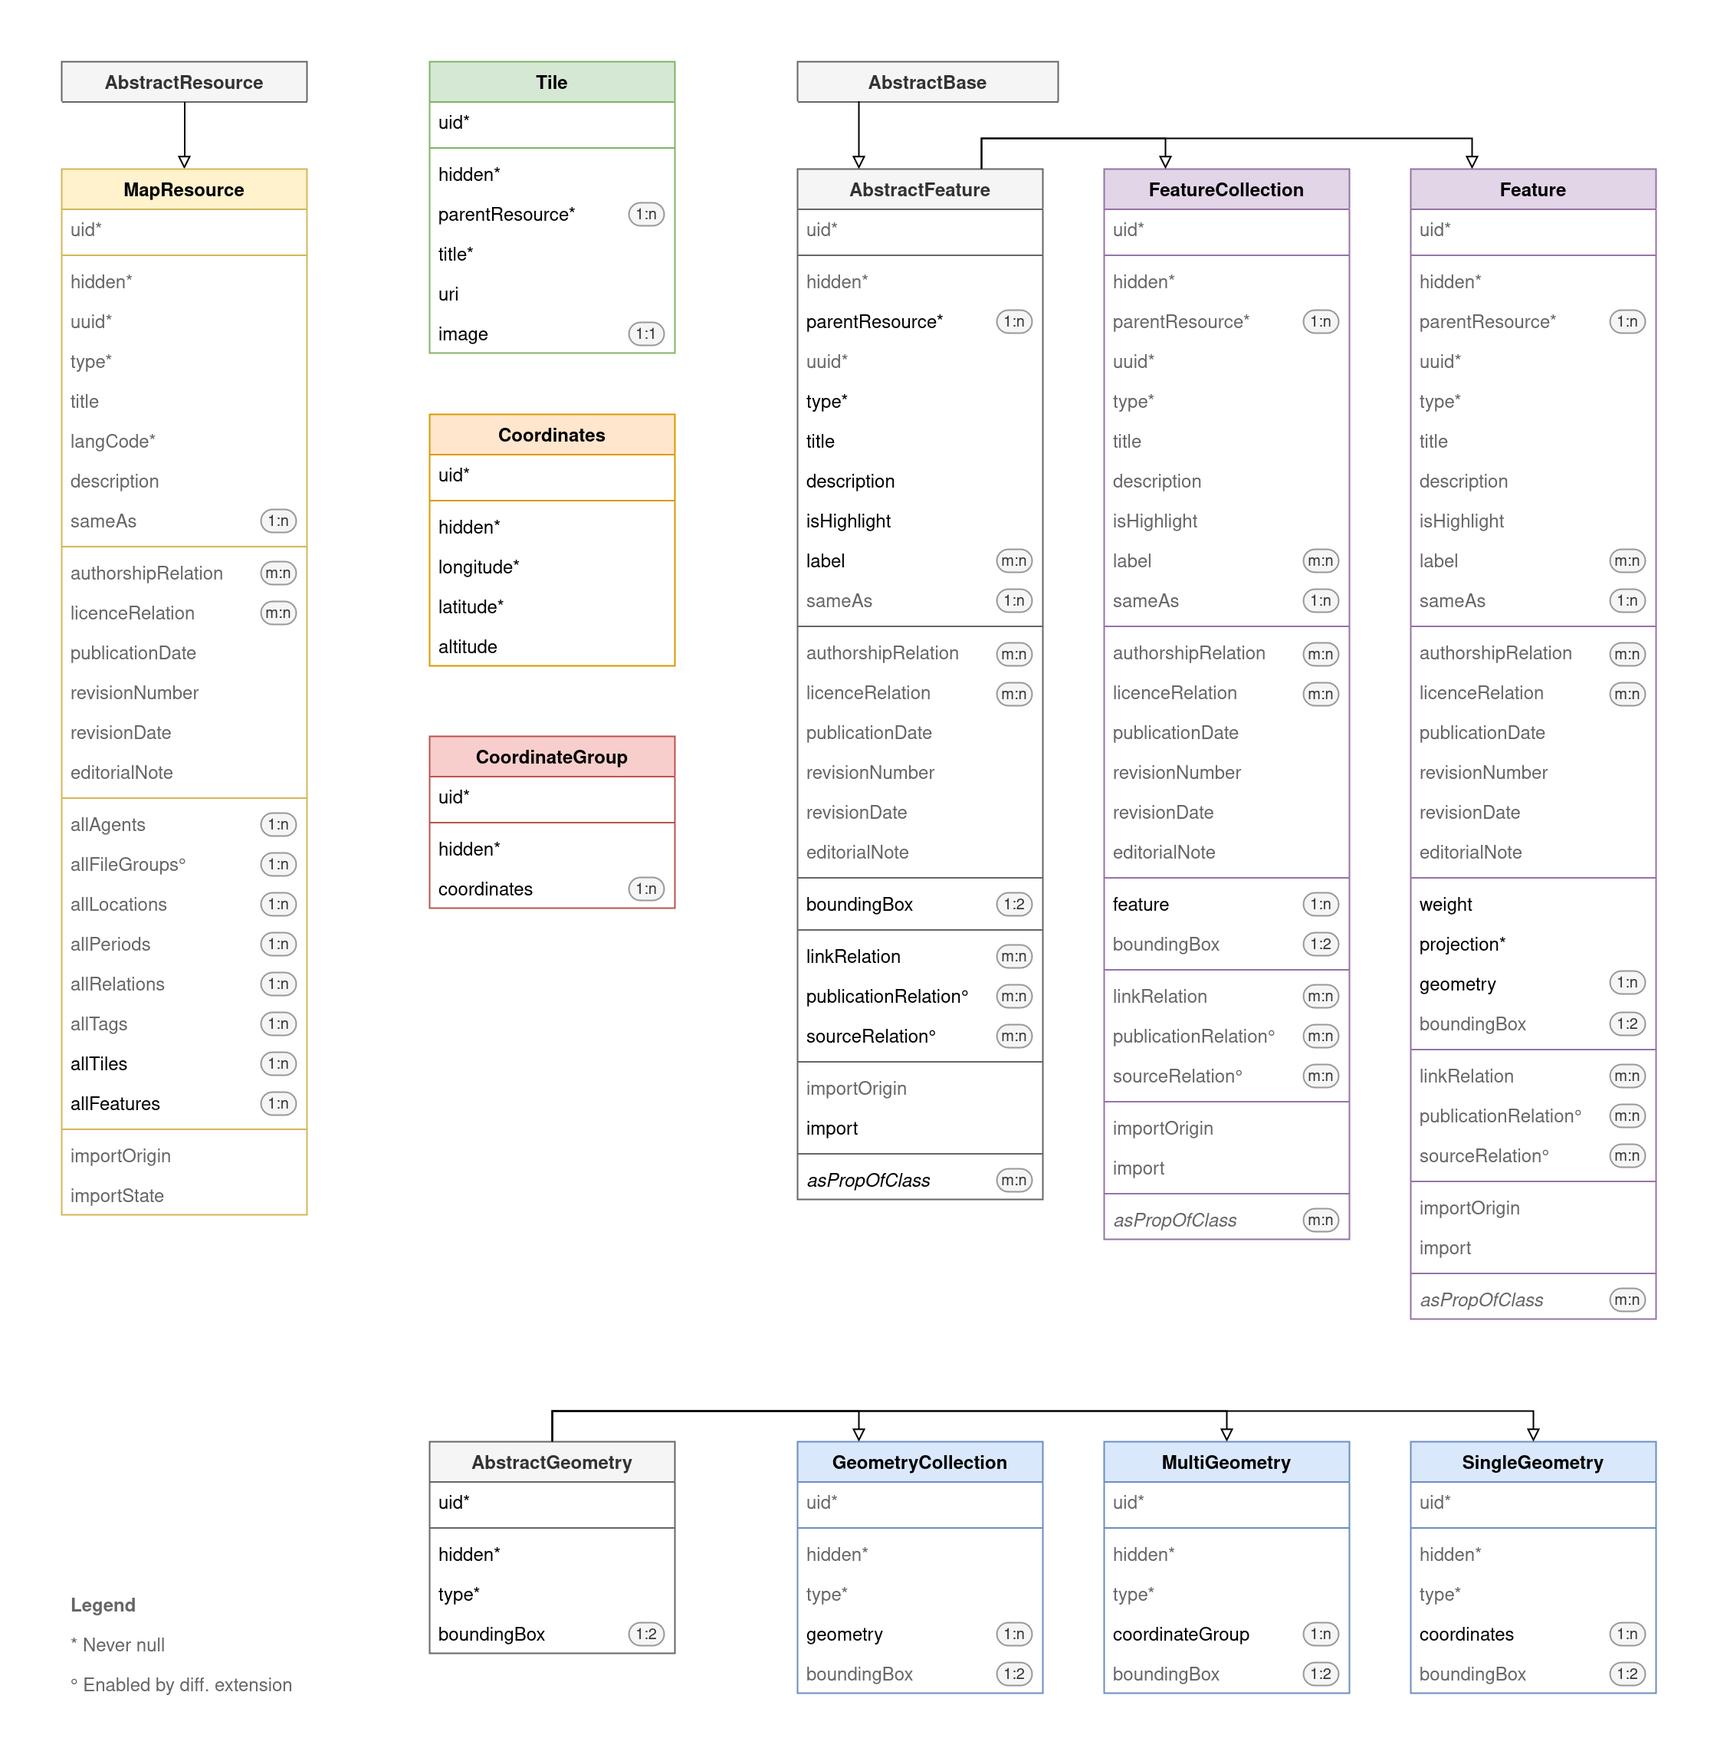
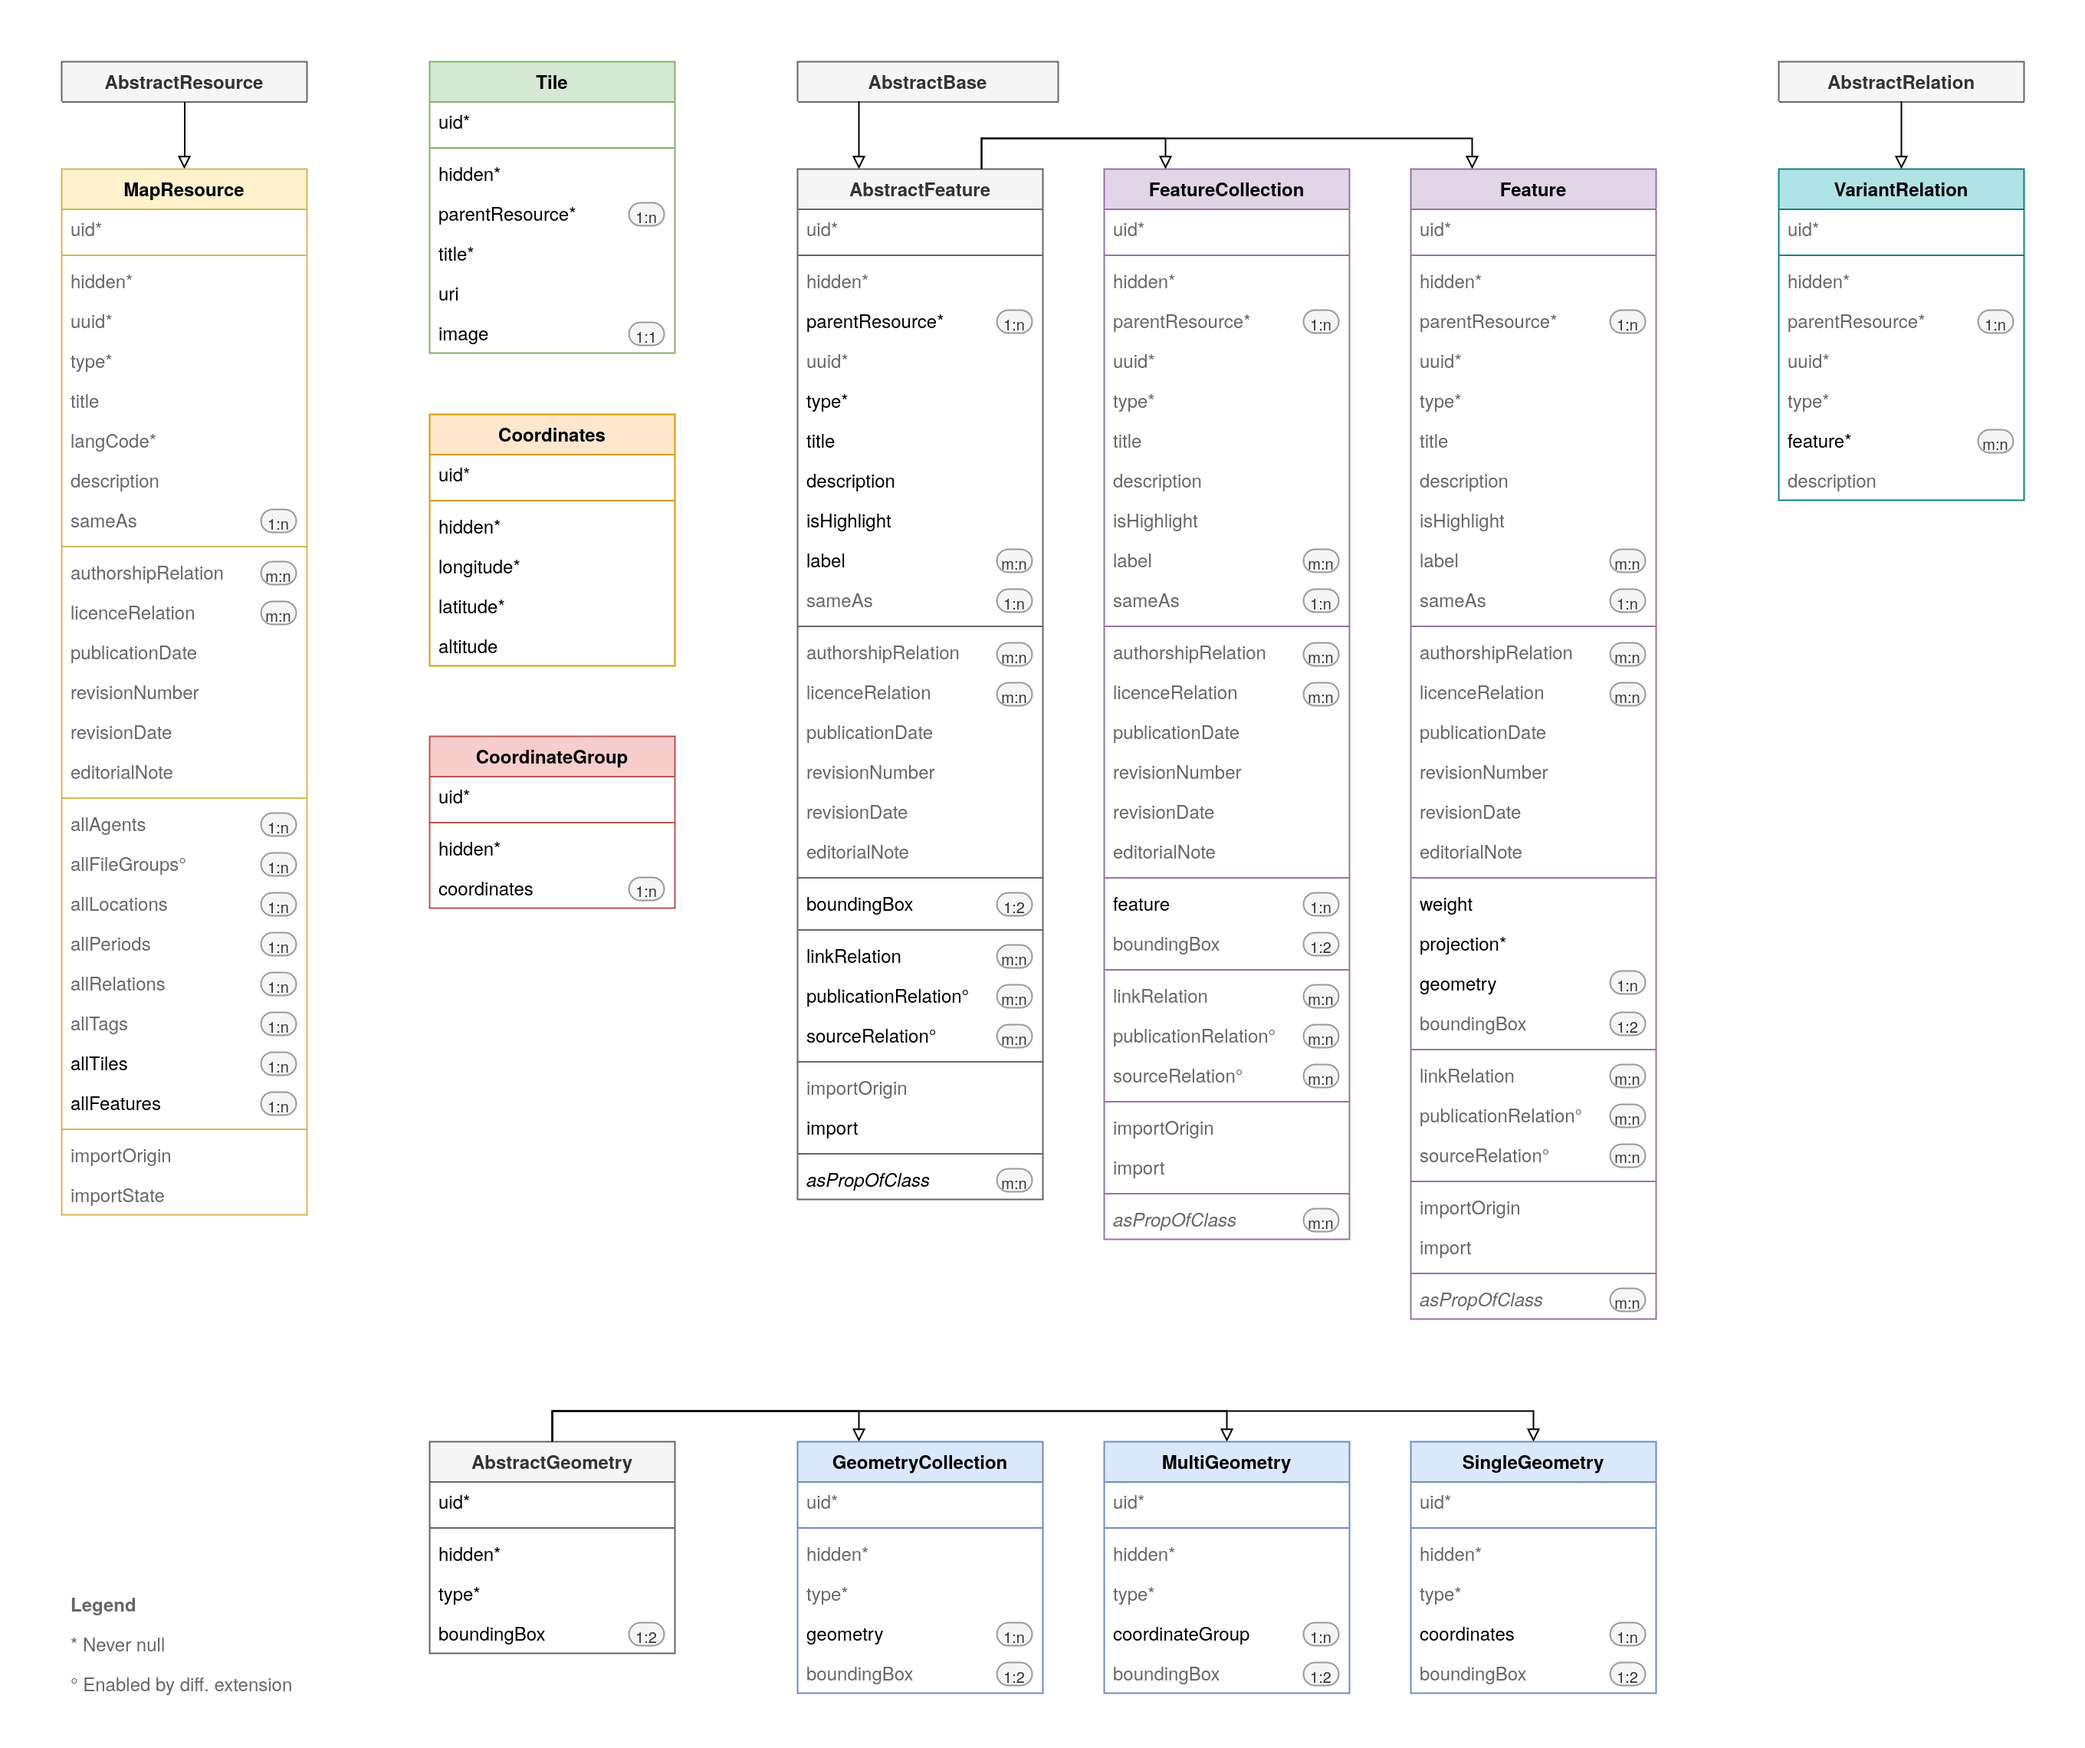
Add VariantRelation to connect variants of the same feature

diff --git a/Configuration/TCA/tx_chfmap_domain_model_feature.php b/Configuration/TCA/tx_chfmap_domain_model_feature.php
@@ -655,6 +655,35 @@ return [
                 'readOnly' => true,
             ],
         ],
+        'asFeatureOfVariantRelation' => [
+            'exclude' => true,
+            'l10n_mode' => 'exclude',
+            'label' => 'LLL:EXT:chf_map/Resources/Private/Language/locallang.xlf:object.abstractFeature.asFeatureOfVariantRelation',
+            'description' => 'LLL:EXT:chf_map/Resources/Private/Language/locallang.xlf:object.abstractFeature.asFeatureOfVariantRelation.description',
+            'config' => [
+                'type' => 'select',
+                'renderType' => 'selectMultipleSideBySide',
+                'foreign_table' => 'tx_chfbase_domain_model_relation',
+                'foreign_table_where' => 'AND {#tx_chfbase_domain_model_relation}.{#pid}=###CURRENT_PID###'
+                    . ' AND {#tx_chfbase_domain_model_relation}.{#type}=\'variantRelation\'',
+                'MM' => 'tx_chfmap_domain_model_relation_feature_feature_mm',
+                'MM_opposite_field' => 'feature',
+                'size' => 5,
+                'autoSizeMax' => 10,
+                'fieldControl' => [
+                    'editPopup' => [
+                        'disabled' => false,
+                    ],
+                    'addRecord' => [
+                        'disabled' => false,
+                    ],
+                    'listModule' => [
+                        'disabled' => false,
+                    ],
+                ],
+                'readOnly' => true,
+            ],
+        ],
     ],
     'palettes' => [
         'hiddenParentResource' => [
@@ -677,7 +706,7 @@ return [
             --div--;LLL:EXT:chf_base/Resources/Private/Language/locallang.xlf:object.generic.content,boundingBox,
             --div--;LLL:EXT:chf_base/Resources/Private/Language/locallang.xlf:object.generic.relations,linkRelation,publicationRelation,sourceRelation,
             --div--;LLL:EXT:chf_base/Resources/Private/Language/locallang.xlf:object.generic.import,importOrigin,import,
-            --div--;LLL:EXT:chf_base/Resources/Private/Language/locallang.xlf:object.generic.usage,asGeodataOfLocation,asGeodataOfFrequency,asGeodataOfSingleObject,asGeodataOfObjectGroup,',
+            --div--;LLL:EXT:chf_base/Resources/Private/Language/locallang.xlf:object.generic.usage,asGeodataOfLocation,asGeodataOfFrequency,asGeodataOfSingleObject,asGeodataOfObjectGroup,asFeatureOfVariantRelation,',
         ],
         'feature' => [
             'showitem' => 'hiddenParentResource,uuidType,title,description,isHighlight,label,sameAs,
@@ -685,7 +714,7 @@ return [
             --div--;LLL:EXT:chf_base/Resources/Private/Language/locallang.xlf:object.generic.content,weightProjection,geometry,boundingBox,
             --div--;LLL:EXT:chf_base/Resources/Private/Language/locallang.xlf:object.generic.relations,linkRelation,publicationRelation,sourceRelation,
             --div--;LLL:EXT:chf_base/Resources/Private/Language/locallang.xlf:object.generic.import,importOrigin,import,
-            --div--;LLL:EXT:chf_base/Resources/Private/Language/locallang.xlf:object.generic.usage,asGeodataOfLocation,asGeodataOfFrequency,asGeodataOfSingleObject,asGeodataOfObjectGroup,',
+            --div--;LLL:EXT:chf_base/Resources/Private/Language/locallang.xlf:object.generic.usage,asGeodataOfLocation,asGeodataOfFrequency,asGeodataOfSingleObject,asGeodataOfObjectGroup,asFeatureOfVariantRelation,',
         ],
         'featureCollection' => [
             'showitem' => 'hiddenParentResource,uuidType,title,description,isHighlight,label,sameAs,
@@ -693,7 +722,7 @@ return [
             --div--;LLL:EXT:chf_base/Resources/Private/Language/locallang.xlf:object.generic.content,feature,boundingBox,
             --div--;LLL:EXT:chf_base/Resources/Private/Language/locallang.xlf:object.generic.relations,linkRelation,publicationRelation,sourceRelation,
             --div--;LLL:EXT:chf_base/Resources/Private/Language/locallang.xlf:object.generic.import,importOrigin,import,
-            --div--;LLL:EXT:chf_base/Resources/Private/Language/locallang.xlf:object.generic.usage,asGeodataOfLocation,asGeodataOfFrequency,asGeodataOfSingleObject,asGeodataOfObjectGroup,',
+            --div--;LLL:EXT:chf_base/Resources/Private/Language/locallang.xlf:object.generic.usage,asGeodataOfLocation,asGeodataOfFrequency,asGeodataOfSingleObject,asGeodataOfObjectGroup,asFeatureOfVariantRelation,',
         ],
     ],
 ];

diff --git a/Configuration/TCA/Overrides/tx_chfbase_domain_model_relation.php b/Configuration/TCA/Overrides/tx_chfbase_domain_model_relation.php
@@ -1,0 +1,75 @@
+<?php
+declare(strict_types=1);
+
+# This file is part of the extension CHF Map for TYPO3.
+#
+# For the full copyright and license information, please read the
+# LICENSE.txt file that was distributed with this source code.
+
+
+defined('TYPO3') or die();
+
+/**
+ * VariantRelation and its properties
+ * 
+ * Extension of a database table and its editing interface in the
+ * TYPO3 backend. This also serves as the basis for the Extbase
+ * domain model. For more information on TCA and its options see
+ * https://docs.typo3.org/m/typo3/reference-tca/main/en-us/.
+ */
+
+// Add select item group 'chfMap'
+\TYPO3\CMS\Core\Utility\ExtensionManagementUtility::addTcaSelectItemGroup('tx_chfbase_domain_model_relation', 'type',
+    'chfMap',
+    'LLL:EXT:chf_base/Resources/Private/Language/locallang.xlf:object.generic.chfMap'
+);
+
+// Add select item 'variantRelation'
+\TYPO3\CMS\Core\Utility\ExtensionManagementUtility::addTcaSelectItem('tx_chfbase_domain_model_relation', 'type',
+    [
+        'label' => 'LLL:EXT:chf_map/Resources/Private/Language/locallang.xlf:object.variantRelation.type.variantRelation',
+        'value' => 'variantRelation',
+        'group' => 'chfMap',
+    ]
+);
+
+// Add column 'feature'
+\TYPO3\CMS\Core\Utility\ExtensionManagementUtility::addTCAcolumns('tx_chfbase_domain_model_relation',
+    [
+        'feature' => [
+            'exclude' => true,
+            'l10n_mode' => 'exclude',
+            'label' => 'LLL:EXT:chf_map/Resources/Private/Language/locallang.xlf:object.variantRelation.feature',
+            'description' => 'LLL:EXT:chf_map/Resources/Private/Language/locallang.xlf:object.variantRelation.feature.description',
+            'config' => [
+                'type' => 'select',
+                'renderType' => 'selectMultipleSideBySide',
+                'foreign_table' => 'tx_chfmap_domain_model_feature',
+                'foreign_table_where' => 'AND {#tx_chfmap_domain_model_feature}.{#pid}=###CURRENT_PID###',
+                'MM' => 'tx_chfmap_domain_model_relation_feature_feature_mm',
+                'MM_opposite_field' => 'asFeatureOfVariantRelation',
+                'size' => 5,
+                'autoSizeMax' => 10,
+                'fieldControl' => [
+                    'editPopup' => [
+                        'disabled' => false,
+                    ],
+                    'addRecord' => [
+                        'disabled' => false,
+                    ],
+                    'listModule' => [
+                        'disabled' => false,
+                    ],
+                ],
+                'required' => true,
+            ],
+        ],
+    ]
+);
+
+// Add type 'variantRelation' and its 'showitem' list
+\TYPO3\CMS\Core\Utility\ExtensionManagementUtility::addToAllTCAtypes(
+   'tx_chfbase_domain_model_relation',
+   'hiddenParentResource,uuidType,feature,description,',
+   'variantRelation'
+);

diff --git a/Configuration/Extbase/Persistence/Classes.php b/Configuration/Extbase/Persistence/Classes.php
@@ -25,6 +25,11 @@ return [
             'mapResource' => Digicademy\CHFMap\Domain\Model\MapResource::class,
         ],
     ],
+    Digicademy\CHFBase\Domain\Model\AbstractRelation::class => [
+        'subclasses' => [
+            'variantRelation' => Digicademy\CHFMap\Domain\Model\VariantRelation::class,
+        ],
+    ],
     Digicademy\CHFMap\Domain\Model\AbstractFeature::class => [
         'tableName'  => 'tx_chfmap_domain_model_feature',
         'recordType' => '0',

diff --git a/Documentation/DataModel/Index.rst b/Documentation/DataModel/Index.rst
@@ -15,6 +15,11 @@ of information: ``Geometry`` can have various types ("Point", "Line string",
 collection") and contains lists of either ``Coordinates`` or
 ``CoordinateGroup`` objects.
 
+Variants of the same feature or feature collection can be bound together using
+a ``VariantRelation``. This can be useful when, for example, you want to store
+a fuzzy and an accurate representation of the same set of markers due to
+privacy concerns.
+
 Each ``MapResource`` may specify a number of ``Tile`` objects it wants to map
 its data onto. The data model itself does not check whether the tiles are
 available and whether you are allowed to use them. Some providers limit the
